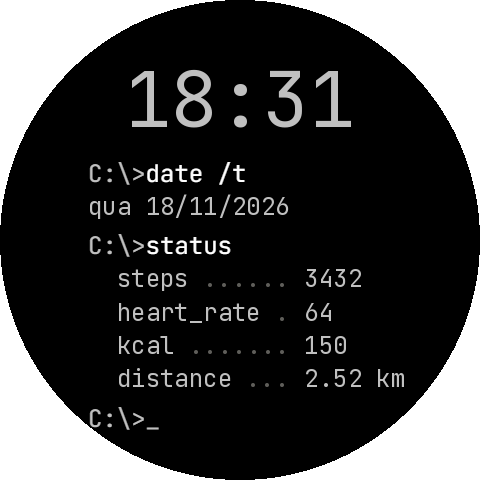
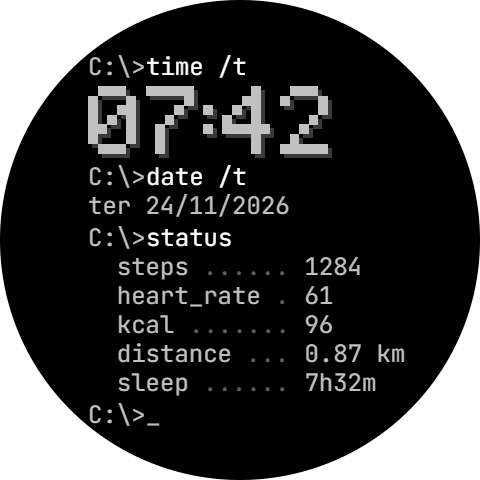
Adiciona horas de sono e hora em bitmap 5x7 (1.1.0)
A hora agora é a saída de C:\>time /t, em dígitos 5x7 com sombra desenhados com FILL_RECT. Nova linha sleep no status (-- sem registro).

Changed region(s): [[0.1562, 0.0938, 0.75, 0.8438], [0.625, 0.5312, 0.8438, 0.8125], [0.1875, 0.8438, 0.3438, 0.9062]]

diff --git a/watchface/index.js b/watchface/index.js
@@ -1,7 +1,8 @@
 /**
  * CMD — mostrador estilo prompt de comando para Amazfit T-Rex 3 (480x480, Zepp OS)
  *
- *              18:30
+ *   C:\>time /t
+ *   ██ ██  ██ ██    (hora em dígitos bitmap 5x7 com sombra, feitos de FILL_RECT)
  *   C:\>date /t
  *   qua 18/11/2026
  *   C:\>status
@@ -9,16 +10,18 @@
  *     heart_rate . 64
  *     kcal ....... 150
  *     distance ... 2.52 km
+ *     sleep ...... 7h32m      (-- sem registro de sono)
  *   C:\>_          (cursor piscando)
  */
-import { createWidget, widget, align, prop, text_style } from '@zos/ui'
-import { Time, Step, HeartRate, Calorie, Distance } from '@zos/sensor'
+import { createWidget, deleteWidget, widget, align, prop, text_style } from '@zos/ui'
+import { Time, Step, HeartRate, Calorie, Distance, Sleep } from '@zos/sensor'
 
 // ---------- tema ----------
 const C = {
   text: 0xc0c0c0, // saída e prompt
   cmd: 0xffffff, // comandos digitados
   dot: 0x5f5e5a, // pontinhos de alinhamento
+  shadow: 0x3a3a38, // sombra dos dígitos da hora
   bg: 0x000000
 }
 
@@ -28,24 +31,53 @@ const ADV = 0.6 // JetBrains Mono: 600/1000 em por caractere
 
 const X = 88
 const SIZE = 24
-const LINE_H = 33
+const LINE_H = 29
 const PROMPT = 'C:\\>'
 const CURSOR_MS = 500
 
 // y de cada linha (topo)
 const Y = {
-  dateCmd: 157,
-  date: 190,
-  statusCmd: 229,
-  steps: 262,
-  hr: 296,
-  kcal: 329,
-  dist: 362,
-  prompt: 402
+  timeCmd: 52,
+  time: 86,
+  dateCmd: 162,
+  date: 191,
+  statusCmd: 223,
+  steps: 252,
+  hr: 281,
+  kcal: 310,
+  dist: 339,
+  sleep: 368,
+  prompt: 400
+}
+
+// ---------- hora em bitmap 5x7 (estilo fonte de BIOS) ----------
+const PX = 9.6 // tamanho de cada "pixel" do bitmap (2/3 de uma coluna do console)
+const SHADOW = 4
+const GLYPHS = {
+  0: ['.###.', '#...#', '#..##', '#.#.#', '##..#', '#...#', '.###.'],
+  1: ['..#..', '.##..', '..#..', '..#..', '..#..', '..#..', '.###.'],
+  2: ['.###.', '#...#', '....#', '...#.', '..#..', '.#...', '#####'],
+  3: ['#####', '...#.', '..#..', '...#.', '....#', '#...#', '.###.'],
+  4: ['...#.', '..##.', '.#.#.', '#..#.', '#####', '...#.', '...#.'],
+  5: ['#####', '#....', '####.', '....#', '....#', '#...#', '.###.'],
+  6: ['..##.', '.#...', '#....', '####.', '#...#', '#...#', '.###.'],
+  7: ['#####', '....#', '...#.', '..#..', '.#...', '.#...', '.#...'],
+  8: ['.###.', '#...#', '#...#', '.###.', '#...#', '#...#', '.###.'],
+  9: ['.###.', '#...#', '#...#', '.####', '....#', '...#.', '.##..'],
+  ':': ['.', '.', '#', '.', '#', '.', '.']
 }
 
 const DAYS = ['seg', 'ter', 'qua', 'qui', 'sex', 'sáb', 'dom'] // Time.getDay(): 1 = segunda ... 7 = domingo
 const pad = (n) => String(n).padStart(2, '0')
+// minutos de sono → "7h32m"; null quando o relógio não registrou sono
+const sleepText = (min) => (min > 0 ? `${Math.floor(min / 60)}h${pad(min % 60)}m` : null)
+const sleepMinutes = (s) => {
+  try {
+    return (s.getInfo() || {}).totalTime || 0
+  } catch (e) {
+    return 0 // sem permissão ou sem dado
+  }
+}
 
 function text(props) {
   return createWidget(widget.TEXT, {
@@ -90,6 +122,57 @@ class Row {
   }
 }
 
+/**
+ * Desenha um glifo em retângulos: cada sequência de '#' numa linha vira um FILL_RECT
+ * (primeiro a sombra deslocada, depois a cor por cima). Devolve os widgets pra poder apagar.
+ */
+function drawGlyph(ch, x, y) {
+  const out = []
+  for (const [d, color] of [[SHADOW, C.shadow], [0, C.text]]) {
+    GLYPHS[ch].forEach((row, j) => {
+      for (let i = 0; i < row.length; i++) {
+        if (row[i] !== '#') continue
+        let k = i
+        while (row[k + 1] === '#') k++
+        const x0 = Math.round(x + i * PX)
+        out.push(
+          createWidget(widget.FILL_RECT, {
+            x: x0 + d,
+            y: Math.round(y + j * PX) + d,
+            w: Math.round(x + (k + 1) * PX) - x0,
+            h: Math.ceil(PX),
+            color
+          })
+        )
+        i = k
+      }
+    })
+  }
+  return out
+}
+
+/** Hora HH:MM em bitmap; só redesenha os dígitos que mudaram. */
+class BlockClock {
+  constructor(x, y) {
+    // colunas: dígito = 5 + 1 de espaço; ':' = 1 + 1
+    this.xs = [0, 6, 14, 20].map((c) => x + c * PX)
+    this.y = y
+    this.digits = ['', '', '', '']
+    this.widgets = [[], [], [], []]
+    drawGlyph(':', x + 12 * PX, y)
+  }
+
+  set(hhmm) {
+    const d = hhmm.replace(':', '')
+    for (let i = 0; i < 4; i++) {
+      if (d[i] === this.digits[i]) continue
+      this.widgets[i].forEach((w) => deleteWidget(w))
+      this.widgets[i] = drawGlyph(d[i], this.xs[i], this.y)
+      this.digits[i] = d[i]
+    }
+  }
+}
+
 /** `C:\>comando` */
 function commandLine(y, cmd) {
   return new Row(y, [
@@ -116,20 +199,11 @@ WatchFace({
     this.hr = new HeartRate()
     this.cal = new Calorie()
     this.dist = new Distance()
-
-    // ---------- hora ----------
-    this.tTime = text({
-      x: 40,
-      y: 56,
-      w: 400,
-      h: 88,
-      text: '00:00',
-      color: C.text,
-      text_size: 77,
-      align_h: align.CENTER_H
-    })
+    this.sleep = new Sleep()
 
     // ---------- console ----------
+    commandLine(Y.timeCmd, 'time /t')
+    this.clock = new BlockClock(X, Y.time)
     commandLine(Y.dateCmd, 'date /t')
     this.lDate = new Row(Y.date, [{ text: '', color: C.text }])
     commandLine(Y.statusCmd, 'status')
@@ -137,6 +211,7 @@ WatchFace({
     this.lHr = statLine(Y.hr, 'heart_rate')
     this.lKcal = statLine(Y.kcal, 'kcal')
     this.lDist = statLine(Y.dist, 'distance')
+    this.lSleep = statLine(Y.sleep, 'sleep')
 
     new Row(Y.prompt, [{ text: PROMPT, color: C.text }])
     this.cursor = text({
@@ -176,7 +251,7 @@ WatchFace({
       } catch (e) {
         year = new Date().getFullYear()
       }
-      this.tTime.setProperty(prop.MORE, { text: `${pad(t.getHours())}:${pad(t.getMinutes())}` })
+      this.clock.set(`${pad(t.getHours())}:${pad(t.getMinutes())}`)
       this.lDate.set(0, `${DAYS[t.getDay() - 1] || ''} ${pad(t.getDate())}/${pad(t.getMonth())}/${year}`)
     }
     this.updateSteps = () => this.lSteps.set(2, ` ${this.step.getCurrent()}`)
@@ -189,15 +264,21 @@ WatchFace({
       const meters = this.dist.getCurrent() // em metros
       this.lDist.set(2, ` ${(meters / 1000).toFixed(2)} km`)
     }
+    this.updateSleep = () => this.lSleep.set(2, ` ${sleepText(sleepMinutes(this.sleep)) || '--'}`)
     this.updateAll = () => {
       this.updateTime()
       this.updateSteps()
       this.updateHr()
       this.updateKcal()
       this.updateDist()
+      this.updateSleep()
     }
 
-    this.time.onPerMinute(this.updateTime)
+    // sono não tem evento de mudança (o sistema recalcula a cada ~30 min): lê a cada minuto
+    this.time.onPerMinute(() => {
+      this.updateTime()
+      this.updateSleep()
+    })
     this.step.onChange(this.updateSteps)
     this.hr.onLastChange(this.updateHr)
     this.cal.onChange(this.updateKcal)

diff --git a/README.md b/README.md
@@ -1,7 +1,7 @@
 # CMD — mostrador para Amazfit T-Rex 3
 [🇺🇸 Read in English](#cmd--watch-face-for-amazfit-t-rex-3)
 
-Mostrador estilo prompt de comando (Zepp OS, 480x480): hora, data, passos, batimentos, kcal e distância.
+Mostrador estilo prompt de comando (Zepp OS, 480x480): hora, data, passos, batimentos, kcal, distância e sono.
 
 ![Preview do mostrador](docs/preview.png)
 
@@ -54,12 +54,14 @@ Tudo fica no topo de `watchface/index.js`:
 - **Prompt:** `PROMPT`
 - **Velocidade do cursor:** `CURSOR_MS` (padrão 500 ms)
 - **Posições:** `X`, `SIZE`, `LINE_H` e o objeto `Y` com o topo de cada linha
+- **Hora:** dígitos bitmap 5x7 em `GLYPHS`, tamanho do pixel em `PX`, sombra em `SHADOW`
 
 ## Comportamento
 
 - O cursor `_` pisca só com a tela acesa; quando a tela apaga, o timer para.
 - Batimento sem medição recente aparece como `--`.
 - Distância vem em metros do sensor e é exibida em km com 2 casas.
+- Sono: total de horas dormidas registradas pelo relógio (`7h32m`). Sem registro, aparece `--`. O sistema recalcula o sono a cada ~30 min, então o mostrador relê a cada minuto e ao acender a tela.
 - Não tem versão AOD (tela sempre ligada) ainda.
 
 Fonte: JetBrains Mono (SIL OFL 1.1), reduzida aos caracteres usados.
@@ -69,7 +71,7 @@ Fonte: JetBrains Mono (SIL OFL 1.1), reduzida aos caracteres usados.
 # CMD — watch face for Amazfit T-Rex 3
 [🇧🇷 Leia em Português](#cmd--mostrador-para-amazfit-t-rex-3)
 
-Command prompt style watch face (Zepp OS, 480x480): time, date, steps, heart rate, calories and distance.
+Command prompt style watch face (Zepp OS, 480x480): time, date, steps, heart rate, calories, distance and sleep.
 
 ![Watch face preview](docs/preview.png)
 
@@ -122,12 +124,14 @@ Everything is at the top of `watchface/index.js`:
 - **Prompt:** `PROMPT`
 - **Cursor speed:** `CURSOR_MS` (default 500 ms)
 - **Positions:** `X`, `SIZE`, `LINE_H` and the `Y` object with the top of each line
+- **Time:** 5x7 bitmap digits in `GLYPHS`, pixel size in `PX`, shadow offset in `SHADOW`
 
 ## Behavior
 
 - The `_` cursor only blinks while the screen is on; the timer stops when the screen turns off.
 - Heart rate with no recent reading shows as `--`.
 - Distance comes from the sensor in meters and is shown in km with 2 decimals.
+- Sleep: total sleep recorded by the watch (`7h32m`). With no record it shows `--`. The system recalculates sleep about every 30 min, so the face re-reads it every minute and when the screen wakes up.
 - No AOD (always-on display) version yet.
 
 Font: JetBrains Mono (SIL OFL 1.1), subset to the characters used.
